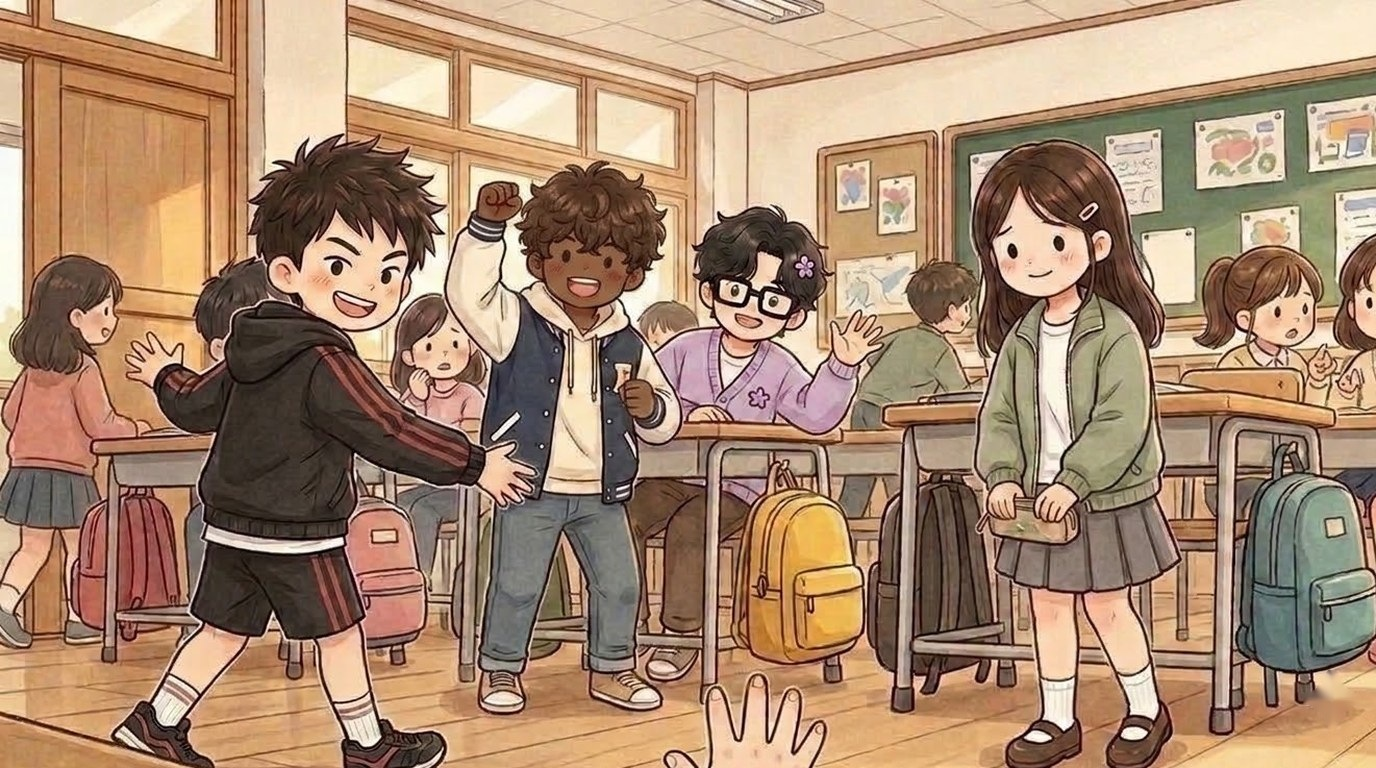
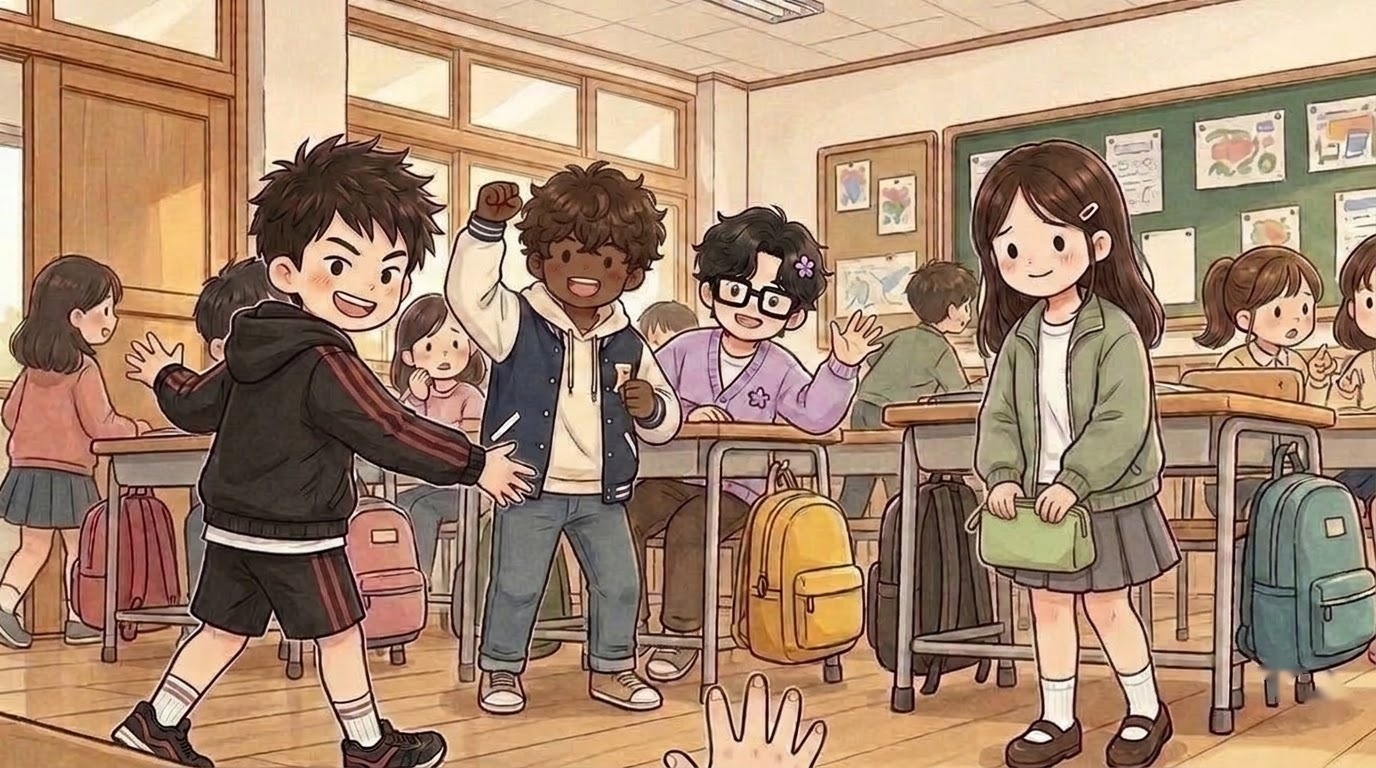
그림 세션 Flow 3장(메인 비교): 시우 급식실 가방 없앰(siwoo_04e)·세아 필통 연두색 천 필통으로 통일(seah_09d·09)

diff --git a/index.html b/index.html
@@ -119,14 +119,14 @@ body,button{word-break:keep-all;overflow-wrap:break-word}
 <div id="fader"></div>
 <script>
 // same address, newest version: if the page this phone has kept is older than the one online, fetch the new one and reopen
-const BUILD='1109120255';
+const BUILD='1109120843';
 try{fetch(location.pathname,{cache:'no-store'}).then(r=>r.text()).then(t=>{const m=t.match(/const BUILD='(\d+)'/);if(m&&m[1]!==BUILD&&sessionStorage.getItem('upd')!==m[1]){sessionStorage.setItem('upd',m[1]);fetch(location.pathname,{cache:'reload'}).then(()=>location.reload())}}).catch(()=>{})}catch(e){}
 </script>
-<script src="i18n.js?v=1109120255"></script>
-<script src="i18n_prologue_v2.js?v=1109120255"></script>
-<script src="day2/i18n_engine.js?v=1109120255"></script>
-<script src="day2/data.js?v=1109120255"></script>
-<script src="day3/data.js?v=1109120255"></script>
+<script src="i18n.js?v=1109120843"></script>
+<script src="i18n_prologue_v2.js?v=1109120843"></script>
+<script src="day2/i18n_engine.js?v=1109120843"></script>
+<script src="day2/data.js?v=1109120843"></script>
+<script src="day3/data.js?v=1109120843"></script>
 <script>
 // ---------- data ----------
 const MW=1672,MH=941,KID=180;
@@ -569,36 +569,36 @@ function pickHero(){const m=document.getElementById('modal'),c=document.getEleme
  c.innerHTML=`<h2>${tr('전학생 반장되기')}</h2><p>${tr('한국말이 아직 서툰 전학생,<br>반장 선거에 나가다.')}</p><p style="margin-top:14px">${tr('누구로 할까요?')}</p>${(()=>{const s=loadSave();return s&&s.day>=2&&s.mode===UI+'-'+LANG?`<p><button class="big" id="cont">${tr('{n}일차부터 이어 하기').replace('{n}',s.day)}</button></p>`:''})()}<div class="pick heroes"><button data-h="hero_f"><img src="faces/hero_f_smile.jpg" alt="여자 주인공">${heroName(1)}</button><button data-h="hero_m"><img src="faces/hero_m_smile.jpg" alt="남자 주인공">${heroName(0)}</button></div>`;
  m.classList.add('on');{const cb=document.getElementById('cont');if(cb)cb.onclick=()=>{const s=loadSave();HERO=s.hero;Object.assign(HEART,s.heart||{});(s.found||[]).forEach(k=>FOUND.add(k));HEART_D1={...HEART};chime();(typeof contGame==='function'?contGame(s):startDay(Math.min(s.day,Object.keys(window.D3||{}).length?3:2)))}}c.querySelectorAll('.pick button').forEach(b=>b.onclick=()=>{HERO=b.dataset.h;m.classList.remove('on');chime();bgm('day');load('home_am');say([['nar','','이사 온 다음 날 아침. 아직 풀지 못한 상자들이 쌓여 있다.'],['think','sad','(오늘부터 새 학교야. 여기 말도 아직 서툰데…….)'],['think','smile','({m}한테 인사하고 학교 가야지.)']],morning)})}
 </script>
-<script src="day2/engine.js?v=1109120255"></script>
-<script src="day2/ep_minho.js?v=1109120255"></script>
-<script src="day2/meet.js?v=1109120255"></script>
-<script src="day2/ep_sua.js?v=1109120255"></script>
-<script src="day2/ep_hangyeol.js?v=1109120255"></script>
-<script src="day2/ep_siwoo.js?v=1109120255"></script>
-<script src="day2/ep_haram.js?v=1109120255"></script>
-<script src="day2/ep_jiho.js?v=1109120255"></script>
-<script src="day2/ep_hyeeun.js?v=1109120255"></script>
-<script src="day2/ep_haneul.js?v=1109120255"></script>
-<script src="day2/ep_junho.js?v=1109120255"></script>
-<script src="day2/ep_yuna.js?v=1109120255"></script>
-<script src="day2/ep_yena.js?v=1109120255"></script>
-<script src="day2/ep_haeun.js?v=1109120255"></script>
-<script src="day2/ep_youngmin.js?v=1109120255"></script>
-<script src="day2/ep_seah.js?v=1109120255"></script>
-<script src="day2/ep_jihoon.js?v=1109120255"></script>
-<script src="words_ja_ru.js?v=1109120255"></script>
-<script src="day2/mybag.js?v=1109120255"></script>
-<script src="day2/wordpics.js?v=1109120255"></script>
-<script src="day2/spots.js?v=1109120255"></script>
-<script src="day2/textfit.js?v=1109120255"></script>
-<script src="day2/tester.js?v=1109120255"></script>
-<script src="day2/ux.js?v=1109120255"></script>
-<script src="day2/tapword.js?v=1109120255"></script>
-<script src="day2/review.js?v=1109120255"></script>
-<script src="day2/plane.js?v=1109120255"></script>
-<script src="day2/bubble.js?v=1109120255"></script>
-<script src="day2/ep_ending.js?v=1109120255"></script>
-<script src="day2/ending.js?v=1109120255"></script>
+<script src="day2/engine.js?v=1109120843"></script>
+<script src="day2/ep_minho.js?v=1109120843"></script>
+<script src="day2/meet.js?v=1109120843"></script>
+<script src="day2/ep_sua.js?v=1109120843"></script>
+<script src="day2/ep_hangyeol.js?v=1109120843"></script>
+<script src="day2/ep_siwoo.js?v=1109120843"></script>
+<script src="day2/ep_haram.js?v=1109120843"></script>
+<script src="day2/ep_jiho.js?v=1109120843"></script>
+<script src="day2/ep_hyeeun.js?v=1109120843"></script>
+<script src="day2/ep_haneul.js?v=1109120843"></script>
+<script src="day2/ep_junho.js?v=1109120843"></script>
+<script src="day2/ep_yuna.js?v=1109120843"></script>
+<script src="day2/ep_yena.js?v=1109120843"></script>
+<script src="day2/ep_haeun.js?v=1109120843"></script>
+<script src="day2/ep_youngmin.js?v=1109120843"></script>
+<script src="day2/ep_seah.js?v=1109120843"></script>
+<script src="day2/ep_jihoon.js?v=1109120843"></script>
+<script src="words_ja_ru.js?v=1109120843"></script>
+<script src="day2/mybag.js?v=1109120843"></script>
+<script src="day2/wordpics.js?v=1109120843"></script>
+<script src="day2/spots.js?v=1109120843"></script>
+<script src="day2/textfit.js?v=1109120843"></script>
+<script src="day2/tester.js?v=1109120843"></script>
+<script src="day2/ux.js?v=1109120843"></script>
+<script src="day2/tapword.js?v=1109120843"></script>
+<script src="day2/review.js?v=1109120843"></script>
+<script src="day2/plane.js?v=1109120843"></script>
+<script src="day2/bubble.js?v=1109120843"></script>
+<script src="day2/ep_ending.js?v=1109120843"></script>
+<script src="day2/ending.js?v=1109120843"></script>
 <script>
 // the goal shows big for a few seconds, then folds into a small pill (tap it to open it again)
 {const g=document.getElementById('goal');let t=null;const big=()=>{g.classList.remove('mini');clearTimeout(t);t=setTimeout(()=>g.classList.add('mini'),4000)};
